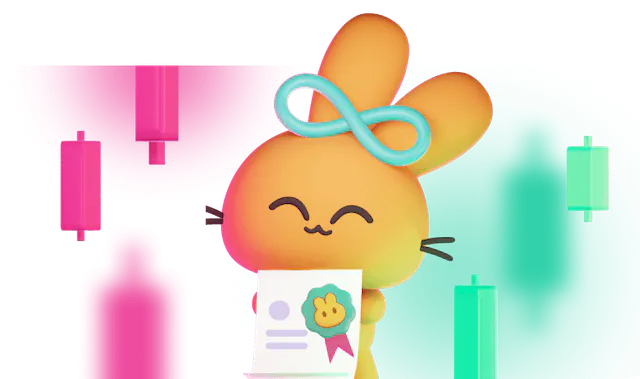
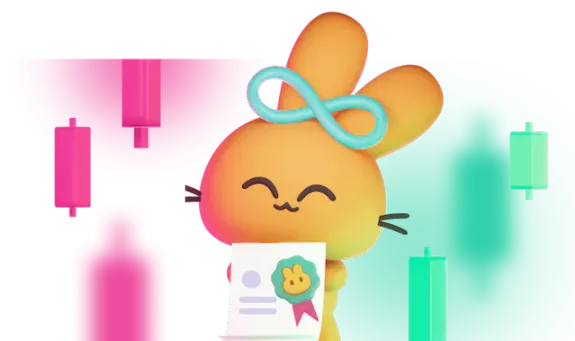
Added assets, updated Index.html and js

diff --git a/index.html b/index.html
@@ -13,46 +13,94 @@
     <div class="container-carousel">
 
         <div class="first-slide mySlides fade">
-            <img id="logos-slide1" src="assets\liquidStakingTitle.png" alt="gloglo">
+            <img id="logos-slide1" src="assets\liquidStakingTitle.png" alt="">
             <img id="bunny-photo-slide1" src="assets/liquidStakingBunny.png" alt="">
             <img id="topCoin-slide1" src="assets/coinUP.png" alt="">
             <div class="rightCoin-div">
                 <img id="rightCoin-slide1" src="assets/coinRight.png" alt="">
             </div>
-            <img id="upStar-carousel1" src="/assets/upstar.png" alt="">
+            <img id="upStar-carousel1" src="assets/upstar.png" alt="">
             <img id="rightStar-carousel1" src="assets/rightStar.png" alt="">
-            <div id="firstSlide-texts">
-                <p>Liquid Staking Integration for WBETH</p>
-                <p>ETH to WBETH conversion and earn ETH staking rewards!</p>
-            </div>
+            <button class="btn__dark__rounded">
+                <a href="">Get Started
+                    <svg viewBox="0 0 24 24" color="backgroundAlt" width="20px" xmlns="http://www.w3.org/2000/svg"
+                        class="sc-4ba21b47-0 jxNZzw">
+                        <path
+                            d="M5 13H16.17L11.29 17.88C10.9 18.27 10.9 18.91 11.29 19.3C11.68 19.69 12.31 19.69 12.7 19.3L19.29 12.71C19.68 12.32 19.68 11.69 19.29 11.3L12.71 4.7C12.32 4.31 11.69 4.31 11.3 4.7C10.91 5.09 10.91 5.72 11.3 6.11L16.17 11H5C4.45 11 4 11.45 4 12C4 12.55 4.45 13 5 13Z">
+                        </path>
+                    </svg>
+                </a>
+            </button>
 
         </div>
 
-        <div class="second-slide mySlides fade"></div>
+        <div class="second-slide mySlides fade">
+            <p class="v3-textTop">Ev3ryone's Favourite D3X</p>
+            <div class="second-slideLogoText">
+                <img class="second-slideLogo" src="assets/pancakeswap-cake-logo.png" alt="">
+                <p class="v3-textBot">PancakeSwap v3 is live!</p>
+            </div>
+            <div class="bunny-photos-slide2">
+                
+                <img class ="bunny-photo-slide2"src="assets/v3LaunchBunny.png" alt="">
+                <img class ="flag-photo-slide2"src="assets/v3LaunchFlag.png" alt="">
+                <img class ="criptoCoin-photo-slide2" src="assets/v3LaunchBnb.png" alt="">
+                <img class ="eterniumCoin-photo-slide2"src="assets/v3LaunchEth.png" alt="">
+                <img class ="moon-photo-slide2"src="assets/v3LaunchBg.png" alt="">
+            </div>
+        </div>
+
 
         <div class="third-slide mySlides fade">
+
             <h1> PancakeSwap v3 Migration </h1>
             <h2>Migrate to continue farming CAKE rewards and earning trading fees.</h2>
-            <div class="button-third-slide"><button>Proceed </button>
-                <button>Guide</button>
+            <div class="button-third-slide">
+                <button class="btn__dark__rounded3">
+                    <a href="">Proceed
+                        <svg viewBox="0 0 24 24" color="backgroundAlt" width="20px" xmlns="http://www.w3.org/2000/svg"
+                            class="sc-4ba21b47-0 jxNZzw">
+                            <path
+                                d="M5 13H16.17L11.29 17.88C10.9 18.27 10.9 18.91 11.29 19.3C11.68 19.69 12.31 19.69 12.7 19.3L19.29 12.71C19.68 12.32 19.68 11.69 19.29 11.3L12.71 4.7C12.32 4.31 11.69 4.31 11.3 4.7C10.91 5.09 10.91 5.72 11.3 6.11L16.17 11H5C4.45 11 4 11.45 4 12C4 12.55 4.45 13 5 13Z">
+                            </path>
+                        </svg>
+                    </a>
+                </button>
             </div>
 
             <img id="bunny-photo-slide3" src="assets\travellerBunnyCarosello.webp" alt="bunny-photo">
         </div>
 
         <div class="fourth-slide mySlides fade">
-            <div class="fourth-slide-imgLogo-container">
-                <img class="logo-ps-carousel" src="assets\pancakeswap-cake-logo.png" alt="">
-                <p class="p-imgLogo">PancakeSwap</p>
+            <div class="img-four">
+                <img class="logo-ps-carousel" src="assets\ethXpancakeswap.png" alt="">
             </div>
-            <h1>gm eth teams</h1>
-            <button>Get in Touch</button>
+
+            <div class="title-slide4">
+                <h1>gm eth teams</h1>
+                <button>Get in Touch</button>
+            </div>
+
+            <img src="assets\EthereumBunnyCarosello.webp" id="bunny-slide4" alt="">
+
         </div>
 
         <div class="fifth-slide mySlides fade">
-            <h2>Perpetual Futures</h2>
-            <h1>UP TO 100x LEVERAGE</h1>
-            <button>Trade now</button>
+            <div class="title-slide5">
+                <h2>Perpetual Futures</h2>
+                <h1>UP TO 100x LEVERAGE</h1>
+                <button class="btn__dark__rounded5">
+                    <a href="">Trade Now
+                        <svg viewBox="0 0 24 24" color="backgroundAlt" width="20px" xmlns="http://www.w3.org/2000/svg"
+                            class="sc-4ba21b47-0 jxNZzw">
+                            <path
+                                d="M5 13H16.17L11.29 17.88C10.9 18.27 10.9 18.91 11.29 19.3C11.68 19.69 12.31 19.69 12.7 19.3L19.29 12.71C19.68 12.32 19.68 11.69 19.29 11.3L12.71 4.7C12.32 4.31 11.69 4.31 11.3 4.7C10.91 5.09 10.91 5.72 11.3 6.11L16.17 11H5C4.45 11 4 11.45 4 12C4 12.55 4.45 13 5 13Z">
+                            </path>
+                        </svg>
+                    </a>
+                </button>
+            </div>
+            <img class="bunny-photo-slide5" src="assets/contractBunnyCarosello.webp" alt="">
         </div>
 
         <div class="container-carousel-buttons" style="text-align:center">
